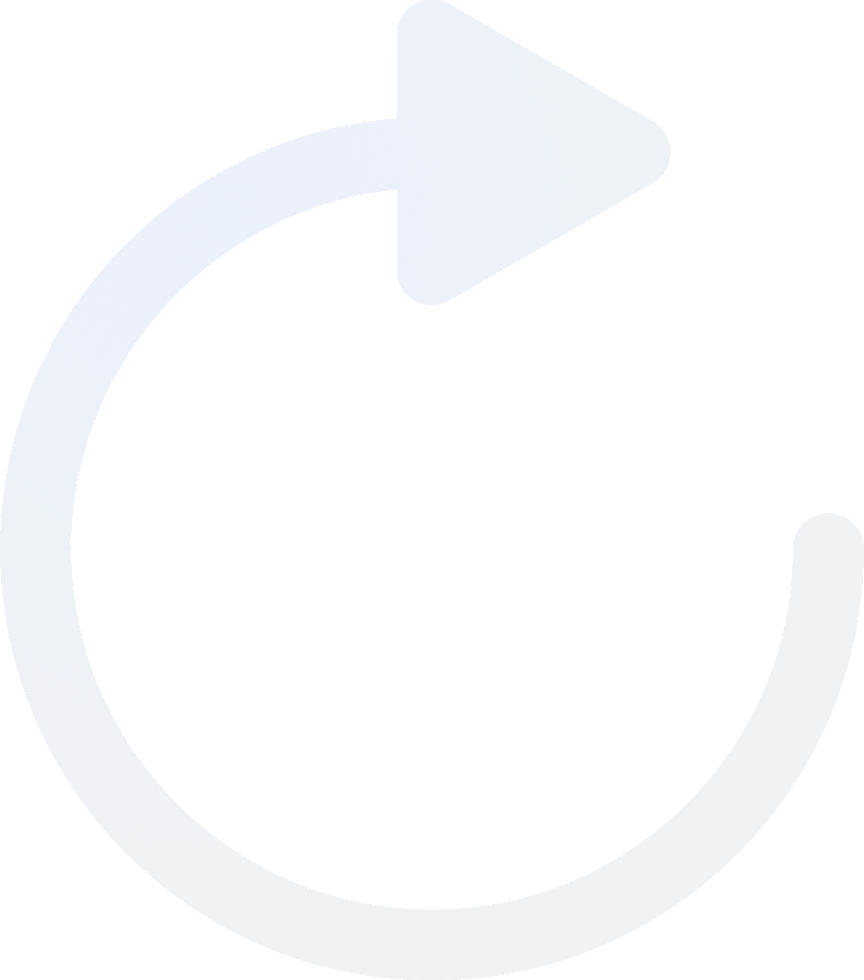
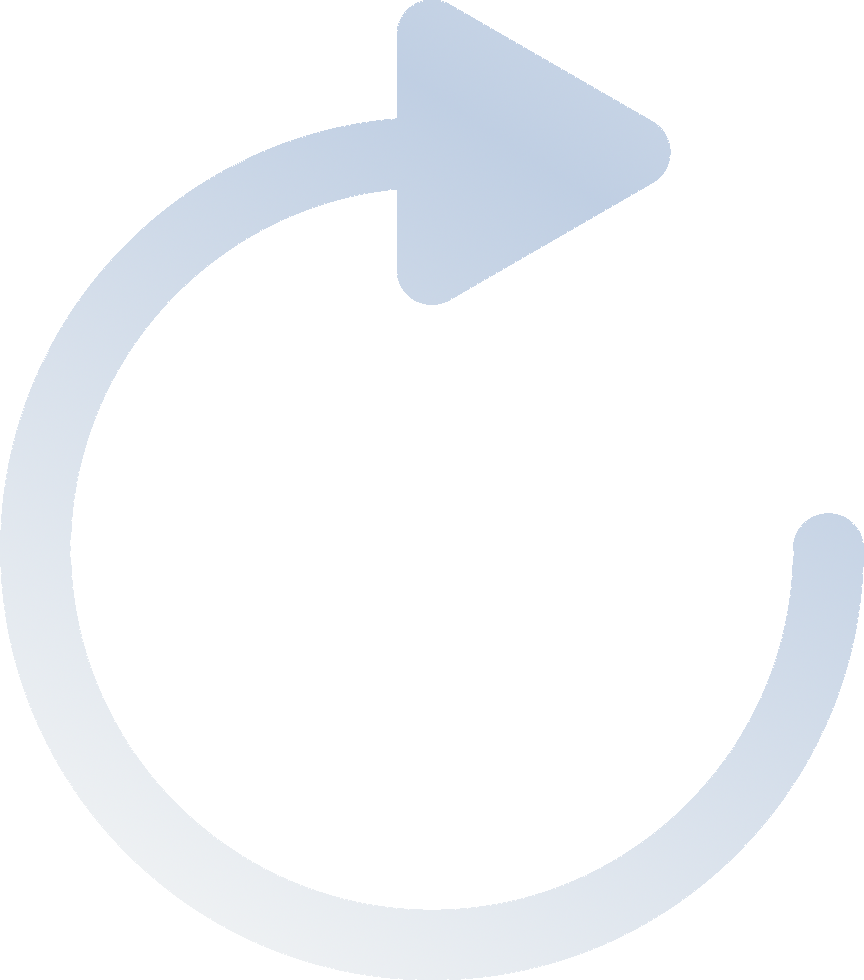
rx

Changed region(s): [[0.0938, 0.0, 0.7812, 0.3367], [0.8125, 0.5204, 1.0, 0.8571]]

diff --git a/rx.html b/rx.html
@@ -13,8 +13,8 @@
     display: block}
 .algo2 li:first-child, .algo2 li:nth-child(2), .algo2 li:nth-child(3), .algo2 li:nth-child(4),
 .algo2 li:nth-child(5), .algo2 li:nth-child(6) {display: block}
-.epBar {font-size: 2vmax;cursor: pointer;background: rgb(32, 32, 32);color: white;}
-.epBar :hover {background: #797979}
+.epBar {font-size: 2vmax;cursor: pointer;background: #b7cbe6;color: black;}
+.epBar :hover {background: #ababab}
 .epSlide {display: none;padding: 1vmax;}
 .epSlide img {width: 100%;padding: 1vmax 20%}
 
@@ -83,12 +83,12 @@
         <ul class="w3-ul algo1">
             <li class="algo1L" style="font-size: 3vmax;font-weight: 900">Reflex Syncope</li>
             <li class="algo1L"><i class="fas fa-arrow-down" style="font-size:3vmax;;color: #3B5998"></i></li>
-            <li class="w3-round-xlarge algo1L" style="font-size: 2.2vmax;background-color: green;
+            <li class="w3-round-large algo1L" style="font-size: 2.2vmax;background-color: green;
             color: white;padding: 0vmax">Education and Life-style Measures (I)</li>
             <li><i class="fas fa-angle-double-down" style="font-size:3vmax;color: red;cursor: pointer;"
                 title="click here for more" onclick="showTheRest('algo1L')">
                 </i></li>
-            <li class="w3-round-xlarge algo1L" style="font-size: 2.2vmax;background-color: #f1f3f4;
+            <li class="w3-round-large algo1L" style="font-size: 2.2vmax;background-color: #f1f3f4;
             padding: 0vmax" title="severe = when very frequent syncope alters quality of life; 
             when recurrent syncope without, or with a very short, prodrome exposes the patient to a 
             risk of trauma; 
@@ -113,18 +113,18 @@
             <li class="algo2L" style="font-size: 3vmax;font-weight: 900">Syncope due to 
                     Orthostatic Hypotension</li>
             <li class="algo2L"><i class="fas fa-arrow-down" style="font-size:3vmax;;color: #3B5998"></i></li>
-            <li class="w3-round-xlarge algo2L" style="font-size: 2.2vmax;background-color: green;
+            <li class="w3-round-large algo2L" style="font-size: 2.2vmax;background-color: green;
             color: white;padding: 0vmax">Education and Life-style Measures (I)</li>
-            <li class="w3-round-xlarge algo2L" style="font-size: 2.2vmax;background-color: green;
+            <li class="w3-round-large algo2L" style="font-size: 2.2vmax;background-color: green;
             color: white;padding: 0vmax">Adequate Hydration and Salt Intake (I)</li>
-            <li class="w3-round-xlarge algo2L" style="font-size: 2.2vmax;background-color: yellow;
+            <li class="w3-round-large algo2L" style="font-size: 2.2vmax;background-color: yellow;
             color: black;padding: 0vmax" title="any antihypertensive agents, nitrates, diuretics, 
             neuroleptic antidepressants, or dopaminergic drugs">
             Discontinue or Reduce Vasoactive Drugs (IIa)</li>    
             <li><i class="fas fa-angle-double-down" style="font-size:3vmax;color: red;cursor: pointer;"
                 title="click here for more" onclick="showTheRest('algo2L')">
                 </i></li>
-            <li class="w3-round-xlarge algo2L" style="font-size: 2.2vmax;background-color: #f1f3f4;">
+            <li class="w3-round-large algo2L" style="font-size: 2.2vmax;background-color: #f1f3f4;">
                 If symptoms persist</li>
             <li class="algo2L"><i class="fas fa-arrow-down" style="font-size:3vmax;;color: #3B5998"></i></li>
             <li class="algo2L" style="background-color:yellow;font-size: 1.8vmax;">
@@ -144,55 +144,38 @@
     <div class="w3-row w3-center quickSand" style="font-size: 3.5vmax; padding: 2vmax">
         Specific Therapy for Cardiac Syncope
     </div>
-    <div class="w3-container">
-        <div class="w3-bar quickSand epBar">
-            <div class="w3-bar-item epBar" onclick="showHide('epSlide',0)" style="border-right: #797979 0.1vmax inset">
-                <span class="no600">Pacemaker</span>
-                <span class="only600">PPM</span>
-            </div>
-            <div class="w3-bar-item epBar" onclick="showHide('epSlide',1)" style="border-right: #797979 0.1vmax inset">
-                <span class="no600">Implantable-cardioverter Defibrillator</span>
-                <span class="only600">ICD</span>
-            </div>
-            <div class="w3-bar-item epBar" onclick="showHide('epSlide',2)">
-                <span class="no600">Catheter Ablation</span>
-                <span class="only600">Ablation</span>
-            </div>
-        </div>
-        <div class="w3-container w3-center quickSand" style="background: black;font-size: 1.8vmax;
-        line-height: 120%">
-            <div class="w3-display-container epSlide">
-            <img src="media/rx/PPM.jpg">
-            <div class="w3-display-left w3-card-4" style="background: rgba(255,255,255,0.8);text-align: left;
-            padding: 0.5vmax">
-            <span style="font-weight: 900;color: green;font-size: 2vmax">PACEMAKER for syncope with...</span><br>
-            Symptomatic sinus node dysfunction (I)<br>
-            Asymptomatic sinus node dysfunction (IIa)<br>
-            High grade AV block(I)<br>
-            Bifascicular block and +EPS for HV>70 or inducible AV block (I)<br>
-            Bifascicular block and +ILR (I)</div>
-            </div>
-        
-            <div class="w3-display-container epSlide">
-            <img src="media/rx/dICD.png">
-            <div class="w3-display-middle w3-card-4" style="background: rgba(255,255,255,0.8);text-align: left;
-            padding: 0.5vmax">
-            <span style="font-weight: 900;color: green;font-size: 2vmax">ICD for syncope with...</span><br>
-            VT and LVEF &le;35% (I) <br>
-            Prior MI and +EPS for VT (I) <br>
-            High-risks HCM (I)<br>
-            LQTs with adequate beta blockers (IIa)<br>
-            Spontaneous type I Brugada (IIa)</div>
-            </div>
-
-            <div class="w3-display-container epSlide">
-            <img src="media/rx/Abl.png">
-            <div class="w3-display-topmiddle" style="background: rgba(255,255,255,0.8);text-align: left;
-                    padding: 0.5vmax;font-size: 2.5vmax;line-height: 130%">
-            Catheter ablation for syncope due to SVT or VT (I)</div>
-            </div>
-        </div>
-    </div>
+    <div class="w3-responsive">
+    <table class="w3-table  w3-padding w3-bordered quickSand" style="line-height: 130%;font-size: 2vmax">
+        <tr class="w3-hover-light-grey">
+            <td style="width: 30vw"><img src="media/rx/PPM.jpg" style="opacity: 0.9"></td>
+            <td style="padding: 1vmax">
+                <span style="font-weight: 900;color: #b2843d;font-size: 2.5vmax">PACEMAKER for syncope with...</span><br>
+                Symptomatic sinus node dysfunction (I)<br>
+                Asymptomatic sinus node dysfunction (IIa)<br>
+                High grade AV block(I)<br>
+                Bifascicular block and +EPS for HV>70 or inducible AV block (I)<br>
+                Bifascicular block and +ILR (I)
+            </td>
+        </tr>
+        <tr class="w3-hover-light-grey">
+            <td><img src="media/rx/dICD.png"></td>
+            <td style="padding: 1vmax">
+                <span style="font-weight: 900;color: #b2843d;font-size: 2.5vmax">ICD for syncope with...</span><br>
+                VT and LVEF &le;35% (I) <br>
+                Prior MI and +EPS for VT (I) <br>
+                High-risks HCM (I)<br>
+                LQTs with adequate beta blockers (IIa)<br>
+                Spontaneous type I Brugada (IIa)
+            </td>
+        </tr>
+        <tr class="w3-hover-light-grey">
+            <td><img src="media/rx/Abl.png"></td>
+            <td style="font-size: 2.2vmax;padding: 1vmax">
+                <span style="font-weight: 900;color: #b2843d;font-size: 2.5vmax">Catheter ablation</span> 
+                for syncope due to SVT or VT (I)</td>
+        </tr>
+    </table></div>
+    
   
     <div class="w3-btn next" onmouseover="next(2)"></div>
 </div>
@@ -210,11 +193,10 @@
     </div> 
     
     <ul class="w3-ul w3-round-xlarge quickSand w3-hoverable" style="font-size: 2.2vmax;padding: 10vmax 5vmax 2vmax 5vmax;
-                margin: -7vmax 5vmax 0 5vmax;border: #f1f3f4 0.2vmax solid">
+                margin: -7vmax 5vmax 0 5vmax;border: #c0cfe3 0.2vmax solid">
         <li>Recurrent Syncope depends largely on MECHANISM rather than ETIOLOGY.</li>
         <li>Pacemaker is the most effective therapy for 
             syncope if the main mechanism is bradycardia. </li>
-        <li>Recurrent rate for reflex syncope varies from 20-70% in 1 year.</li>
         <li>Syncopal recurrences often decrease spontaneously after medical assessment, 
             even in the absence of a specific therapy; in general, syncope recurs in <50% 
             of patients within 1–2 years</li>

diff --git a/test.html b/test.html
@@ -58,7 +58,7 @@
 }
 
 .epBlk {
-    height: 80vh;width: 100%;
+    min-height: 80vh;width: 100%;
     margin-top: 5vh;
     background: linear-gradient(to bottom right, white 0%, #f1f1f1 40%,white 100%);
 }
@@ -383,7 +383,7 @@ padding-top: 290px;padding-bottom: 5vmax">
 
 
         <!--brady BFB-->
-        <div id="bS1" class="bS w3-container w3-center">
+        <div id="bS1" class="bS w3-container w3-center w3-padding">
             <img src="media/test/bfb.jpg" style="max-height: 45vh; mix-blend-mode: difference;padding: 1vmax">
             <table class="w3-content w3-center narrowF" style="border-collapse: collapse;">
                 <tr style="vertical-align: middle">
@@ -477,7 +477,8 @@ padding-top: 290px;padding-bottom: 5vmax">
     
     <!--tachy post MI-->
     <div id="tS1" class="tS w3-container quickSand">  
-        <div class="w3-display-container" style="border: black solid 0.2vmax;padding: 0.5vmax 0;margin-top: 1vh">
+        <div class="w3-display-container" style="border: black solid 0.2vmax;padding: 0.5vmax 0;
+        margin-top: 2vh">
             <img src="media/test/postMI VT.png">
             <div class="w3-display-topleft quickSand" style="font-size: 1.8vmax;font-weight: 900;
             background: rgba(254, 254, 254, 0.8);padding: 0.5vmax;margin: 0.5vmax;line-height: 120%">
